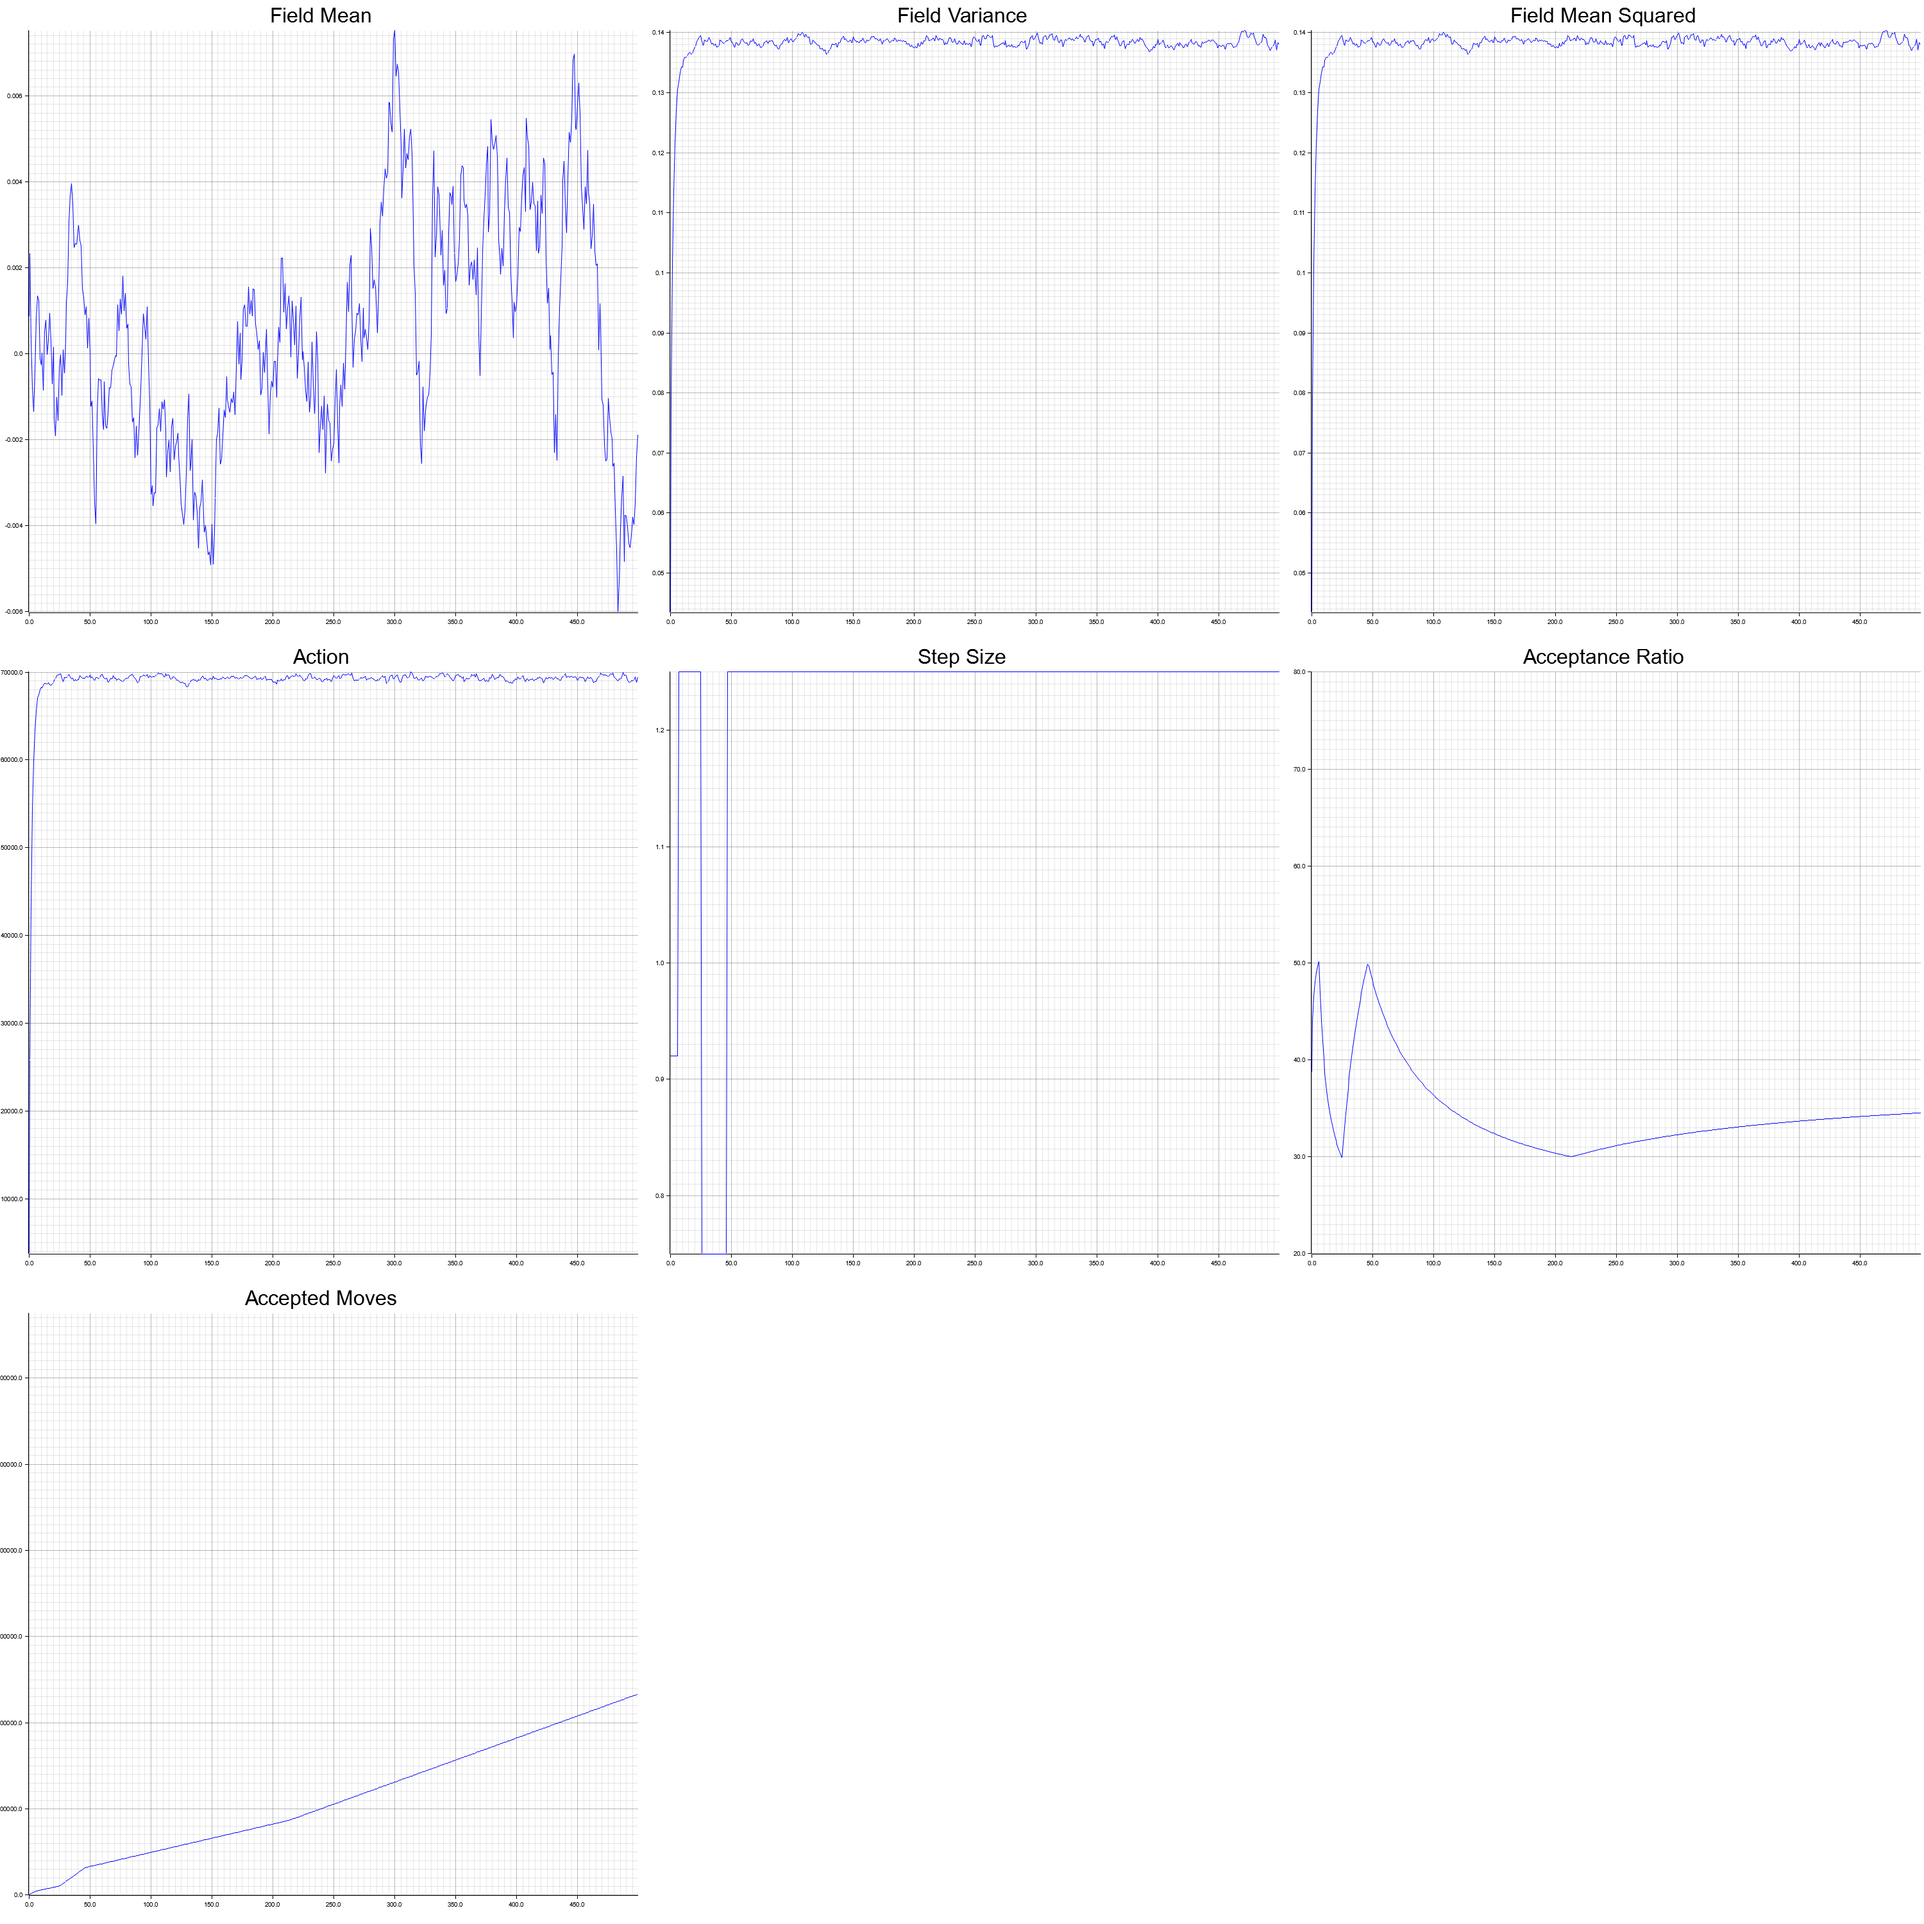
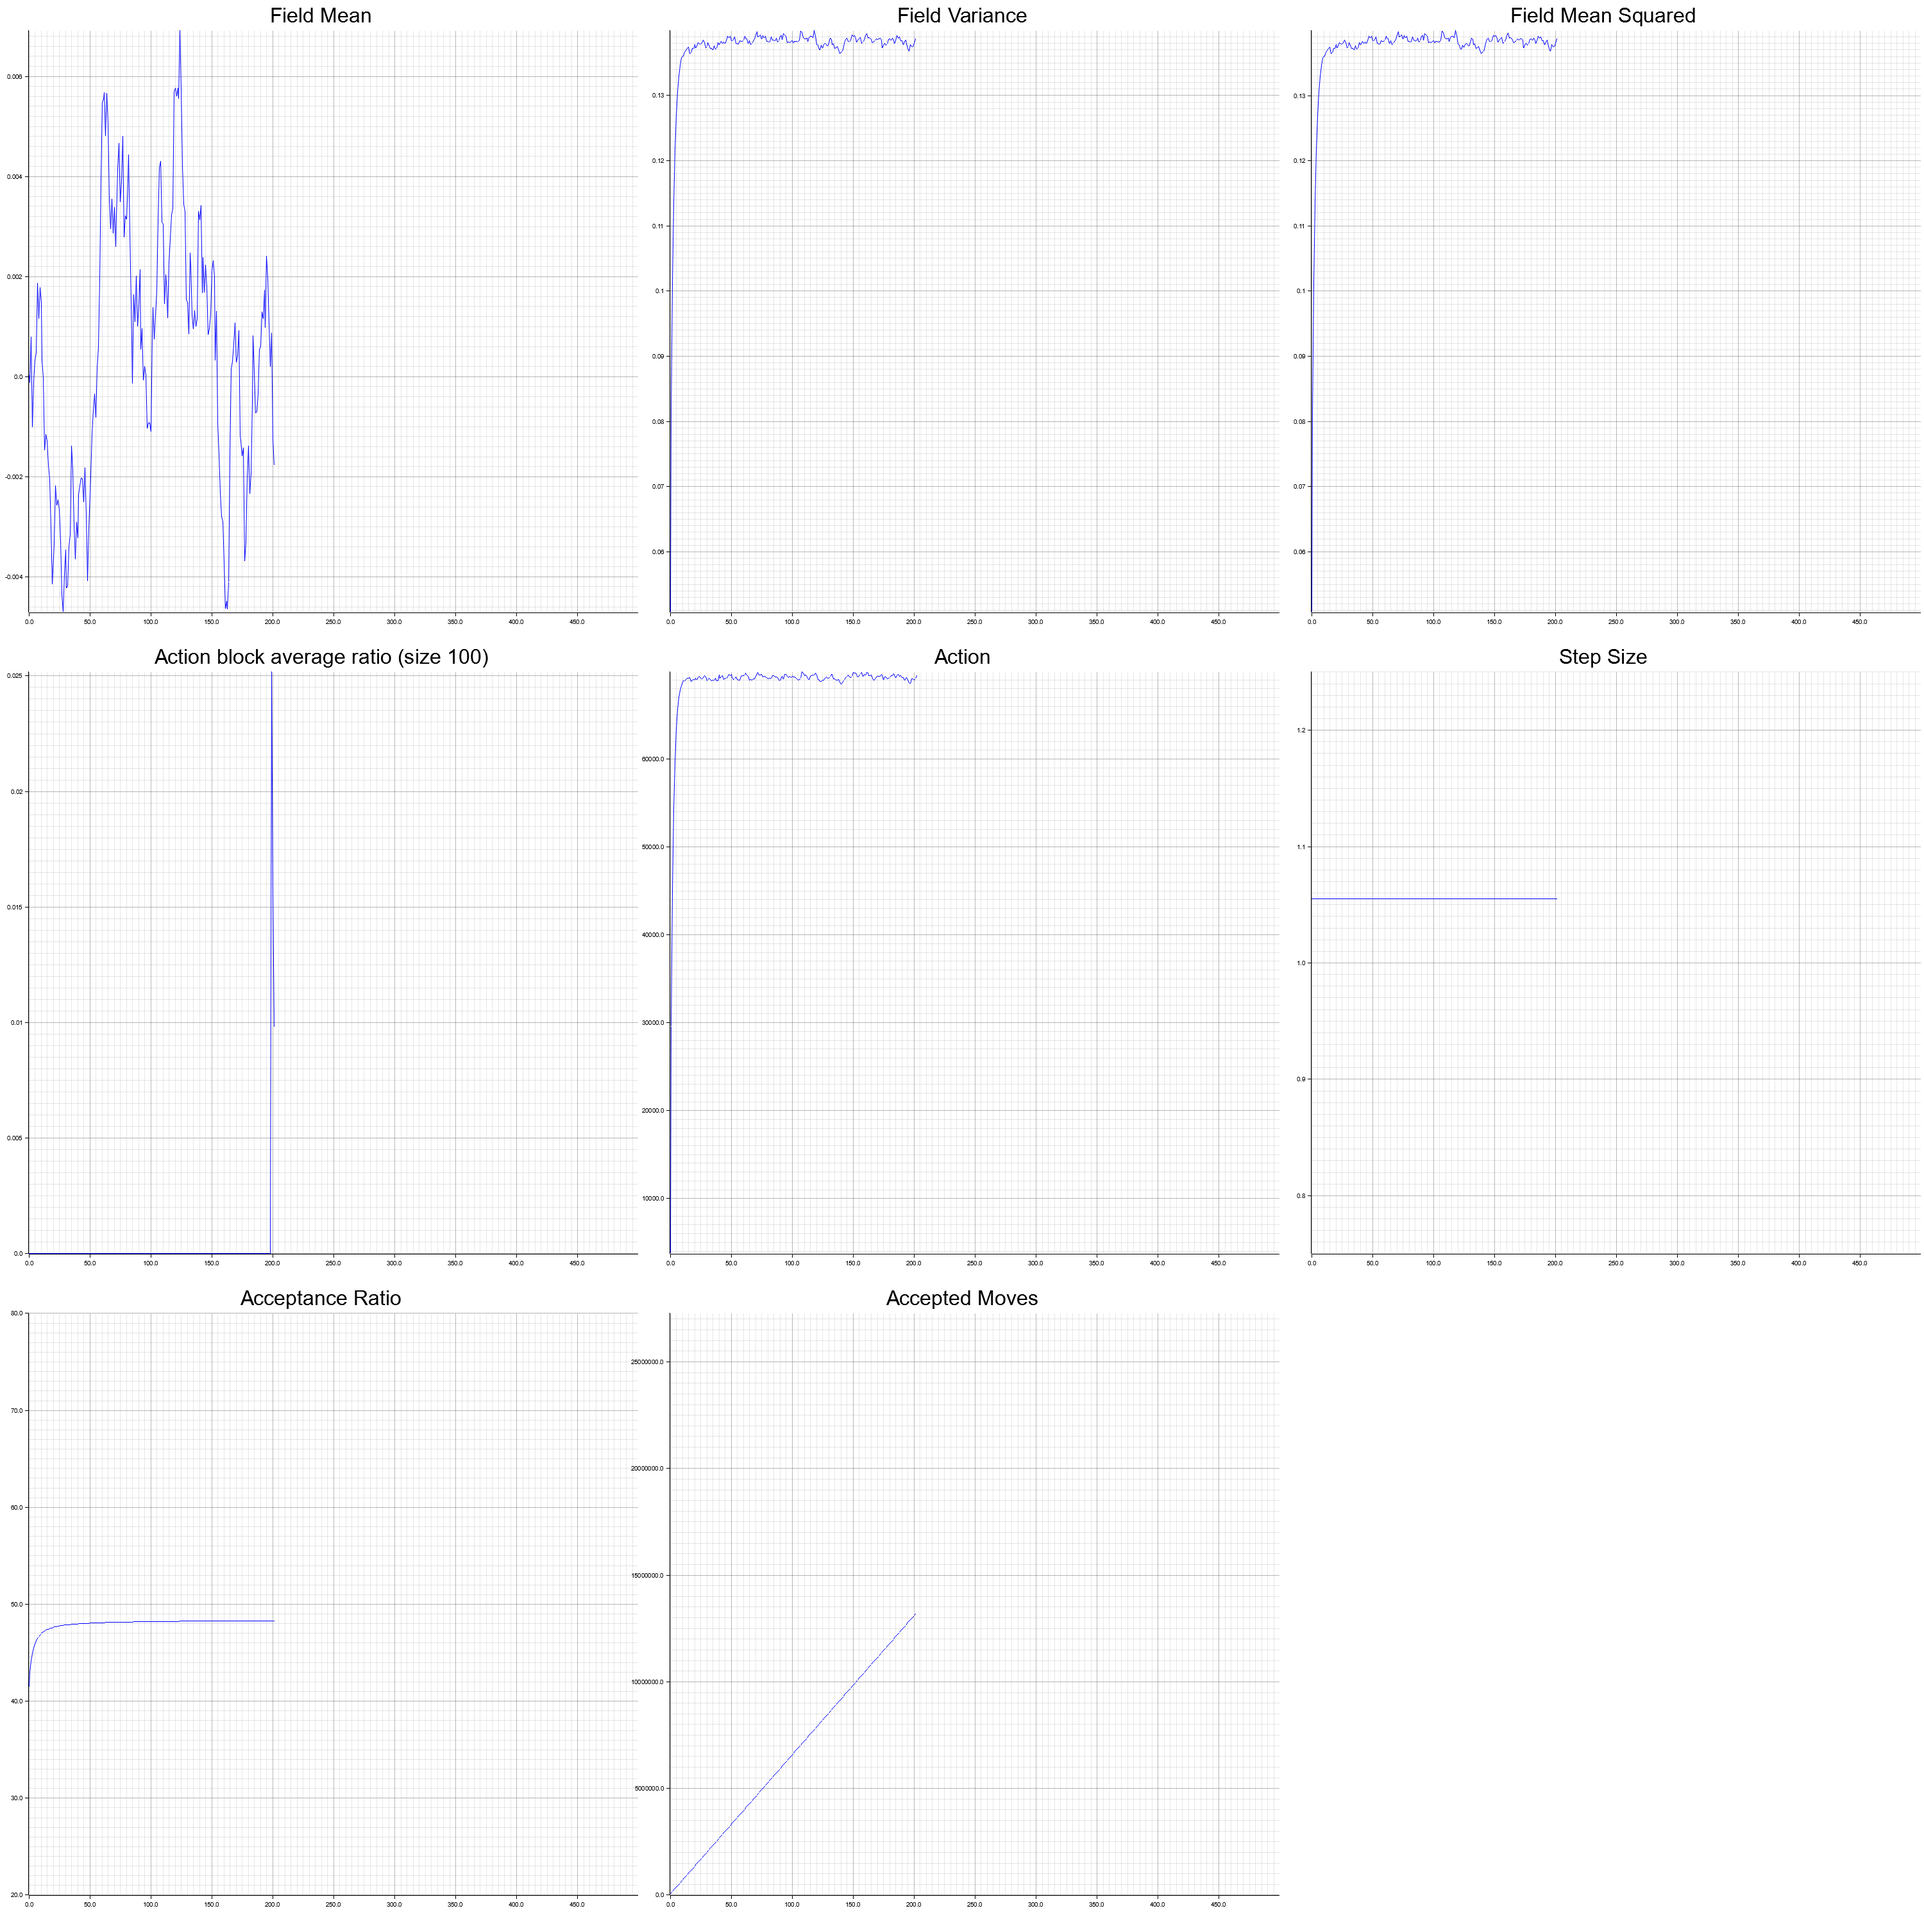
Compute action block average for thermalisation check

diff --git a/src/sim.rs b/src/sim.rs
@@ -22,6 +22,8 @@ pub struct SimBuilder {
     lower_acceptance: f64,
     upper_acceptance: f64,
     acceptance_update_interval: usize,
+    thermalisation_threshold: f64,
+    thermalisation_block_size: usize,
 
     mass_squared: f64,
     bare_coupling: f64,
@@ -38,6 +40,8 @@ impl SimBuilder {
             bare_coupling: 0.0,
             lower_acceptance: 0.78,
             upper_acceptance: 0.82,
+            thermalisation_threshold: 0.01,
+            thermalisation_block_size: 100,
             acceptance_update_interval: 1000,
         }
     }
@@ -99,6 +103,16 @@ impl SimBuilder {
         self
     }
 
+    pub fn thermalisation_threshold(mut self, value: f64) -> Self {
+        self.thermalisation_threshold = value;
+        self
+    }
+
+    pub fn thermalisation_block_size(mut self, value: usize) -> Self {
+        self.thermalisation_block_size = value;
+        self
+    }
+
     /// Creates the simulation using the given options.
     pub fn build(self) -> anyhow::Result<Sim> {
         let lattice = match self.initial_value {
@@ -116,6 +130,8 @@ impl SimBuilder {
             upper_acceptance: self.upper_acceptance,
             stats: SimStatistics::default(),
             acceptance_interval: self.acceptance_update_interval,
+            thermalisation_block_size: self.thermalisation_block_size,
+            thermalisation_threshold: self.thermalisation_threshold
         };
 
         let first_action = sim.compute_full_action();
@@ -154,6 +170,7 @@ pub struct SimStatistics {
     pub action_history: Vec<f64>,
     /// The action at the current point in time.
     pub current_action: AtomicF64,
+    pub thermalisation_ratio_history: Vec<f64>
 }
 
 impl SimStatistics {
@@ -164,6 +181,7 @@ impl SimStatistics {
         self.mean_history.reserve(count);
         self.meansq_history.reserve(count);
         self.action_history.reserve(count);
+        self.thermalisation_ratio_history.reserve(count);
     }
 }
 
@@ -179,6 +197,7 @@ impl Default for SimStatistics {
             mean_history: Vec::new(),
             meansq_history: Vec::new(),
             action_history: Vec::new(),
+            thermalisation_ratio_history: Vec::new()
         }
     }
 }
@@ -195,6 +214,9 @@ pub struct Sim {
     lower_acceptance: f64,
     upper_acceptance: f64,
 
+    thermalisation_threshold: f64,
+    thermalisation_block_size: usize,
+
     stats: SimStatistics,
 }
 
@@ -203,16 +225,42 @@ impl Sim {
         &self.stats
     }
 
+    pub fn thermalisation_threshold(&self) -> f64 {
+        self.thermalisation_threshold
+    }
+
+    pub fn thermalisation_block_size(&self) -> usize {
+        self.thermalisation_block_size
+    }
+
     pub fn step_size(&self) -> f64 {
         self.step_size.load(Ordering::Relaxed)
     }
 
-    // /// Determines whether thermalisation of the system has finished.
-    // fn has_thermalised(&self) -> bool {
+    /// Determines whether thermalisation of the system has finished.
+    /// 
+    /// Returns the current ratio and a bool indicating whether the system has reached the
+    /// thermalisation threshold.
+    fn thermalisation_check(&self) -> (f64, bool) {
+        let bsize = self.thermalisation_block_size;
 
-    // }
+        let action_history = &self.stats.action_history;
+        let ah_len = action_history.len();
+        if ah_len < 2 * bsize {
+            return (0.0, false)
+        }
 
-    // Check whether the current field variation is correct, otherwise adjusts it slightly.
+        let last50 = &action_history[(ah_len - bsize)..];
+        let l50_avg = last50.iter().copied().sum::<f64>().abs() / bsize as f64;
+
+        let prev50 = &action_history[(ah_len - 2 * bsize)..(ah_len - bsize)];
+        let p50_avg: f64 = prev50.iter().copied().sum::<f64>().abs() / bsize as f64;
+
+        let ratio = (l50_avg - p50_avg).abs() / l50_avg;
+        (ratio, ratio < self.thermalisation_threshold)
+    }
+
+    /// Check whether the current field variation is correct, otherwise adjusts it slightly.
     fn update_step_size(&self) {
         let acceptance_ratio = self.accepted_moves() as f64 / self.total_moves() as f64;
 
@@ -335,10 +383,6 @@ impl Sim {
         println!("Acceptance ratio: {:.2}%", ratio);
     }
 
-    fn check_thermalisation(&self) -> bool {
-        todo!()
-    }
-
     pub fn simulate_checkerboard(&mut self, total_sweeps: usize) {
         let (red, black) = self.lattice.generate_indices();
 
@@ -371,7 +415,16 @@ impl Sim {
                 }
             });
 
+            let (th_ratio, thermalised) = self.thermalisation_check();
+            self.stats.thermalisation_ratio_history.push(th_ratio);
+
             self.record_stats(i, total_sweeps);
+
+            if thermalised {
+                println!("The system has thermalised with ratio {:.2}!", th_ratio);
+                break
+            }
+
             // let thermalised = self.check_thermalisation();
         }
 
@@ -381,6 +434,7 @@ impl Sim {
     pub fn total_moves(&self) -> usize {
         self.stats.total_moves.load(Ordering::Relaxed)
     }
+
     pub fn accepted_moves(&self) -> usize {
         self.stats.accepted_moves.load(Ordering::Relaxed)
     }

diff --git a/src/main.rs b/src/main.rs
@@ -163,6 +163,8 @@ fn main() -> anyhow::Result<()> {
         .mass_squared(0.5)
         .coupling(0.0)
         .initial_value(InitialFieldValue::RandomRange(-0.1..0.1))
+        .thermalisation_block_size(100)
+        .thermalisation_threshold(0.01)
         .build()?;
 
     plot_lattice(0, sim.lattice())?;
@@ -212,6 +214,12 @@ fn main() -> anyhow::Result<()> {
                 caption: "Field Mean Squared",
                 xdata: &sweepx,
                 ydata: &stats.meansq_history,
+                ..Default::default()
+            },
+            GraphData {
+                caption: &format!("Action block average ratio (size {})", sim.thermalisation_block_size()),
+                xdata: &sweepx,
+                ydata: &stats.thermalisation_ratio_history,
                 ..Default::default()
             },
             GraphData {
